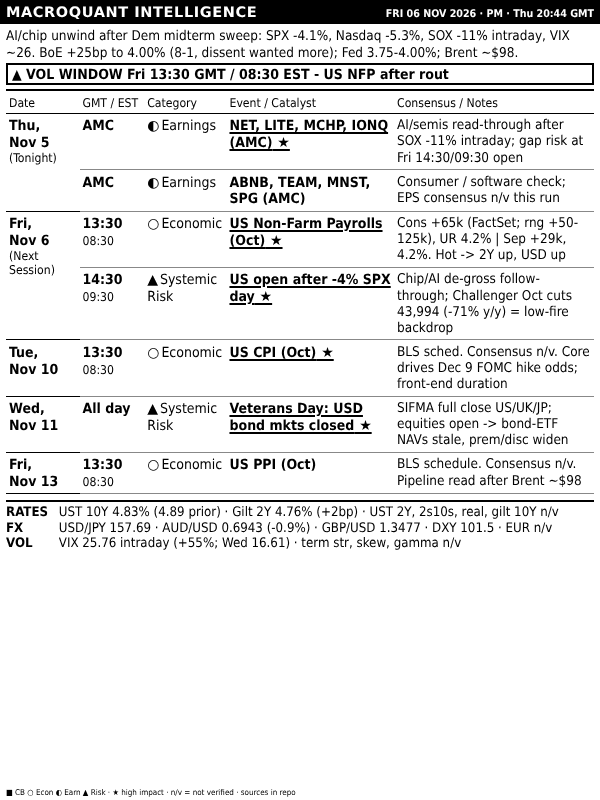
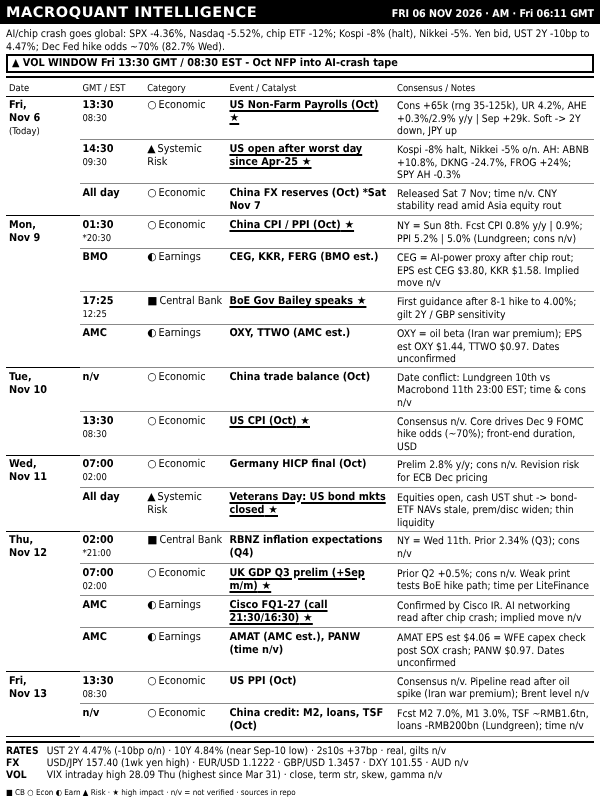
dashboard: FRI 06 NOV 2026 AM
Claude-Session: https://claude.ai/code/session_016SJqa4ccw8tqbN4tJoC8t4

diff --git a/out/dashboard.html b/out/dashboard.html
@@ -33,10 +33,10 @@ table.bd{border-collapse:collapse;width:100%;table-layout:fixed;margin-top:1px}
 </style></head><body>
 <div id="root">
  <div class="hdr"><span class="t">MACROQUANT INTELLIGENCE</span>
-  <span class="r">FRI 06 NOV 2026 · PM · Thu 20:44 GMT</span></div>
- <div class="ban"><div class="rg">AI/chip unwind after Dem midterm sweep: SPX -4.1%, Nasdaq -5.3%, SOX -11% intraday, VIX ~26. BoE +25bp to 4.00% (8-1, dissent wanted more); Fed 3.75-4.00%; Brent ~$98.</div><div class="al">▲ VOL WINDOW Fri 13:30 GMT / 08:30 EST - US NFP after rout</div></div>
- <table class="bd"><colgroup><col style="width:12.5%"><col style="width:11%"><col style="width:14%"><col style="width:28.5%"><col></colgroup><tr><th>Date</th><th>GMT / EST</th><th>Category</th><th>Event / Catalyst</th><th>Consensus / Notes</th></tr><tr class="g0 h"><td class="dt" rowspan="2">Thu,<br>Nov&nbsp;5<span class="tg">(Tonight)</span></td><td class="tm"><b>AMC</b></td><td class="ct"><i>◐</i>Earnings</td><td class="ev">NET, LITE, MCHP, IONQ (AMC)</td><td class="nt">AI/semis read-through after SOX -11% intraday; gap risk at Fri 14:30/09:30 open</td></tr><tr class=""><td class="tm"><b>AMC</b></td><td class="ct"><i>◐</i>Earnings</td><td class="ev">ABNB, TEAM, MNST, SPG (AMC)</td><td class="nt">Consumer / software check; EPS consensus n/v this run</td></tr><tr class="g0 h"><td class="dt" rowspan="2">Fri,<br>Nov&nbsp;6<span class="tg">(Next Session)</span></td><td class="tm"><b>13:30</b><span>08:30</span></td><td class="ct"><i>○</i>Economic</td><td class="ev">US Non-Farm Payrolls (Oct)</td><td class="nt">Cons +65k (FactSet; rng +50-125k), UR 4.2% | Sep +29k, 4.2%. Hot -&gt; 2Y up, USD up</td></tr><tr class="h"><td class="tm"><b>14:30</b><span>09:30</span></td><td class="ct"><i>▲</i>Systemic Risk</td><td class="ev">US open after -4% SPX day</td><td class="nt">Chip/AI de-gross follow-through; Challenger Oct cuts 43,994 (-71% y/y) = low-fire backdrop</td></tr><tr class="g0 h"><td class="dt" rowspan="1">Tue,<br>Nov&nbsp;10</td><td class="tm"><b>13:30</b><span>08:30</span></td><td class="ct"><i>○</i>Economic</td><td class="ev">US CPI (Oct)</td><td class="nt">BLS sched. Consensus n/v. Core drives Dec 9 FOMC hike odds; front-end duration</td></tr><tr class="g0 h"><td class="dt" rowspan="1">Wed,<br>Nov&nbsp;11</td><td class="tm"><b>All day</b></td><td class="ct"><i>▲</i>Systemic Risk</td><td class="ev">Veterans Day: USD bond mkts closed</td><td class="nt">SIFMA full close US/UK/JP; equities open -&gt; bond-ETF NAVs stale, prem/disc widen</td></tr><tr class="g0"><td class="dt" rowspan="1">Fri,<br>Nov&nbsp;13</td><td class="tm"><b>13:30</b><span>08:30</span></td><td class="ct"><i>○</i>Economic</td><td class="ev">US PPI (Oct)</td><td class="nt">BLS schedule. Consensus n/v. Pipeline read after Brent ~$98</td></tr></table>
- <div class="lv"><div><b>RATES</b>UST 10Y 4.83% (4.89 prior) · Gilt 2Y 4.76% (+2bp) · UST 2Y, 2s10s, real, gilt 10Y n/v</div><div><b>FX</b>USD/JPY 157.69 · AUD/USD 0.6943 (-0.9%) · GBP/USD 1.3477 · DXY 101.5 · EUR n/v</div><div><b>VOL</b>VIX 25.76 intraday (+55%; Wed 16.61) · term str, skew, gamma n/v</div></div>
+  <span class="r">FRI 06 NOV 2026 · AM · Fri 06:11 GMT</span></div>
+ <div class="ban"><div class="rg">AI/chip crash goes global: SPX -4.36%, Nasdaq -5.52%, chip ETF -12%; Kospi -8% (halt), Nikkei -5%. Yen bid, UST 2Y -10bp to 4.47%; Dec Fed hike odds ~70% (82.7% Wed).</div><div class="al">▲ VOL WINDOW Fri 13:30 GMT / 08:30 EST - Oct NFP into AI-crash tape</div></div>
+ <table class="bd"><colgroup><col style="width:12.5%"><col style="width:11%"><col style="width:14%"><col style="width:28.5%"><col></colgroup><tr><th>Date</th><th>GMT / EST</th><th>Category</th><th>Event / Catalyst</th><th>Consensus / Notes</th></tr><tr class="g0 h"><td class="dt" rowspan="3">Fri,<br>Nov&nbsp;6<span class="tg">(Today)</span></td><td class="tm"><b>13:30</b><span>08:30</span></td><td class="ct"><i>○</i>Economic</td><td class="ev">US Non-Farm Payrolls (Oct)</td><td class="nt">Cons +65k (rng 35-125k), UR 4.2%, AHE +0.3%/2.9% y/y | Sep +29k. Soft -&gt; 2Y down, JPY up</td></tr><tr class="h"><td class="tm"><b>14:30</b><span>09:30</span></td><td class="ct"><i>▲</i>Systemic Risk</td><td class="ev">US open after worst day since Apr-25</td><td class="nt">Kospi -8% halt, Nikkei -5% o/n. AH: ABNB +10.8%, DKNG -24.7%, FROG +24%; SPY AH -0.3%</td></tr><tr class=""><td class="tm"><b>All day</b></td><td class="ct"><i>○</i>Economic</td><td class="ev">China FX reserves (Oct) *Sat Nov 7</td><td class="nt">Released Sat 7 Nov; time n/v. CNY stability read amid Asia equity rout</td></tr><tr class="g0 h"><td class="dt" rowspan="4">Mon,<br>Nov&nbsp;9</td><td class="tm"><b>01:30</b><span>*20:30</span></td><td class="ct"><i>○</i>Economic</td><td class="ev">China CPI / PPI (Oct)</td><td class="nt">NY = Sun 8th. Fcst CPI 0.8% y/y | 0.9%; PPI 5.2% | 5.0% (Lundgreen; cons n/v)</td></tr><tr class=""><td class="tm"><b>BMO</b></td><td class="ct"><i>◐</i>Earnings</td><td class="ev">CEG, KKR, FERG (BMO est.)</td><td class="nt">CEG = AI-power proxy after chip rout; EPS est CEG $3.80, KKR $1.58. Implied move n/v</td></tr><tr class="h"><td class="tm"><b>17:25</b><span>12:25</span></td><td class="ct"><i>■</i>Central Bank</td><td class="ev">BoE Gov Bailey speaks</td><td class="nt">First guidance after 8-1 hike to 4.00%; gilt 2Y / GBP sensitivity</td></tr><tr class=""><td class="tm"><b>AMC</b></td><td class="ct"><i>◐</i>Earnings</td><td class="ev">OXY, TTWO (AMC est.)</td><td class="nt">OXY = oil beta (Iran war premium); EPS est OXY $1.44, TTWO $0.97. Dates unconfirmed</td></tr><tr class="g0"><td class="dt" rowspan="2">Tue,<br>Nov&nbsp;10</td><td class="tm"><b>n/v</b></td><td class="ct"><i>○</i>Economic</td><td class="ev">China trade balance (Oct)</td><td class="nt">Date conflict: Lundgreen 10th vs Macrobond 11th 23:00 EST; time &amp; cons n/v</td></tr><tr class="h"><td class="tm"><b>13:30</b><span>08:30</span></td><td class="ct"><i>○</i>Economic</td><td class="ev">US CPI (Oct)</td><td class="nt">Consensus n/v. Core drives Dec 9 FOMC hike odds (~70%); front-end duration, USD</td></tr><tr class="g0"><td class="dt" rowspan="2">Wed,<br>Nov&nbsp;11</td><td class="tm"><b>07:00</b><span>02:00</span></td><td class="ct"><i>○</i>Economic</td><td class="ev">Germany HICP final (Oct)</td><td class="nt">Prelim 2.8% y/y; cons n/v. Revision risk for ECB Dec pricing</td></tr><tr class="h"><td class="tm"><b>All day</b></td><td class="ct"><i>▲</i>Systemic Risk</td><td class="ev">Veterans Day: US bond mkts closed</td><td class="nt">Equities open, cash UST shut -&gt; bond-ETF NAVs stale, prem/disc widen; thin liquidity</td></tr><tr class="g0"><td class="dt" rowspan="4">Thu,<br>Nov&nbsp;12</td><td class="tm"><b>02:00</b><span>*21:00</span></td><td class="ct"><i>■</i>Central Bank</td><td class="ev">RBNZ inflation expectations (Q4)</td><td class="nt">NY = Wed 11th. Prior 2.34% (Q3); cons n/v</td></tr><tr class="h"><td class="tm"><b>07:00</b><span>02:00</span></td><td class="ct"><i>○</i>Economic</td><td class="ev">UK GDP Q3 prelim (+Sep m/m)</td><td class="nt">Prior Q2 +0.5%; cons n/v. Weak print tests BoE hike path; time per LiteFinance</td></tr><tr class="h"><td class="tm"><b>AMC</b></td><td class="ct"><i>◐</i>Earnings</td><td class="ev">Cisco FQ1-27 (call 21:30/16:30)</td><td class="nt">Confirmed by Cisco IR. AI networking read after chip crash; implied move n/v</td></tr><tr class=""><td class="tm"><b>AMC</b></td><td class="ct"><i>◐</i>Earnings</td><td class="ev">AMAT (AMC est.), PANW (time n/v)</td><td class="nt">AMAT EPS est $4.06 = WFE capex check post SOX crash; PANW $0.97. Dates unconfirmed</td></tr><tr class="g0"><td class="dt" rowspan="2">Fri,<br>Nov&nbsp;13</td><td class="tm"><b>13:30</b><span>08:30</span></td><td class="ct"><i>○</i>Economic</td><td class="ev">US PPI (Oct)</td><td class="nt">Consensus n/v. Pipeline read after oil spike (Iran war premium); Brent level n/v</td></tr><tr class=""><td class="tm"><b>n/v</b></td><td class="ct"><i>○</i>Economic</td><td class="ev">China credit: M2, loans, TSF (Oct)</td><td class="nt">Fcst M2 7.0%, M1 3.0%, TSF ~RMB1.6tn, loans -RMB200bn (Lundgreen); time n/v</td></tr></table>
+ <div class="lv"><div><b>RATES</b>UST 2Y 4.47% (-10bp o/n) · 10Y 4.84% (near Sep-10 low) · 2s10s +37bp · real, gilts n/v</div><div><b>FX</b>USD/JPY 157.40 (1wk yen high) · EUR/USD 1.1222 · GBP/USD 1.3457 · DXY 101.55 · AUD n/v</div><div><b>VOL</b>VIX intraday high 28.09 Thu (highest since Mar 31) · close, term str, skew, gamma n/v</div></div>
 </div>
 <div class="foot">■ CB ○ Econ ◐ Earn ▲ Risk · ★ high impact · n/v = not verified · sources in repo</div>
 </body></html>
